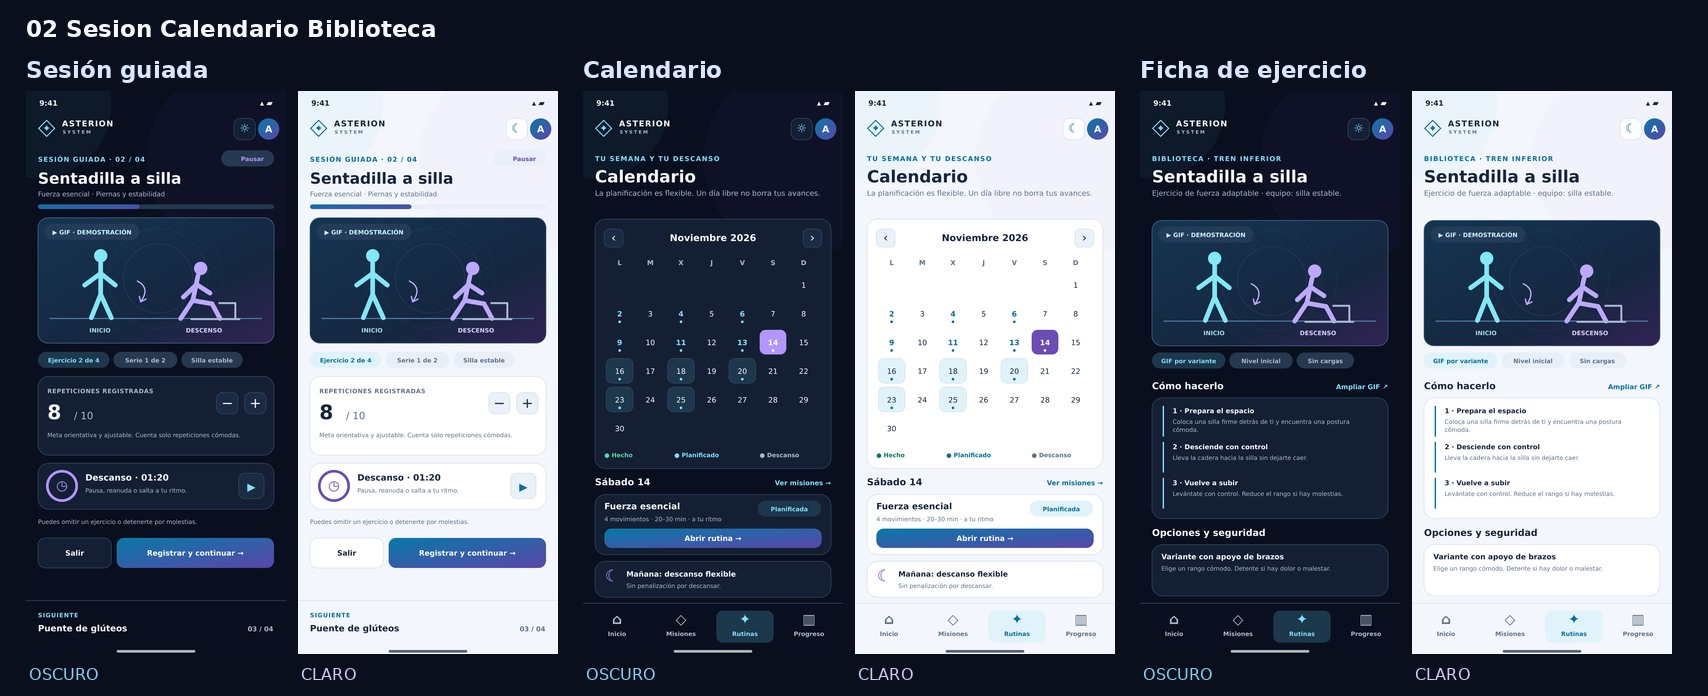
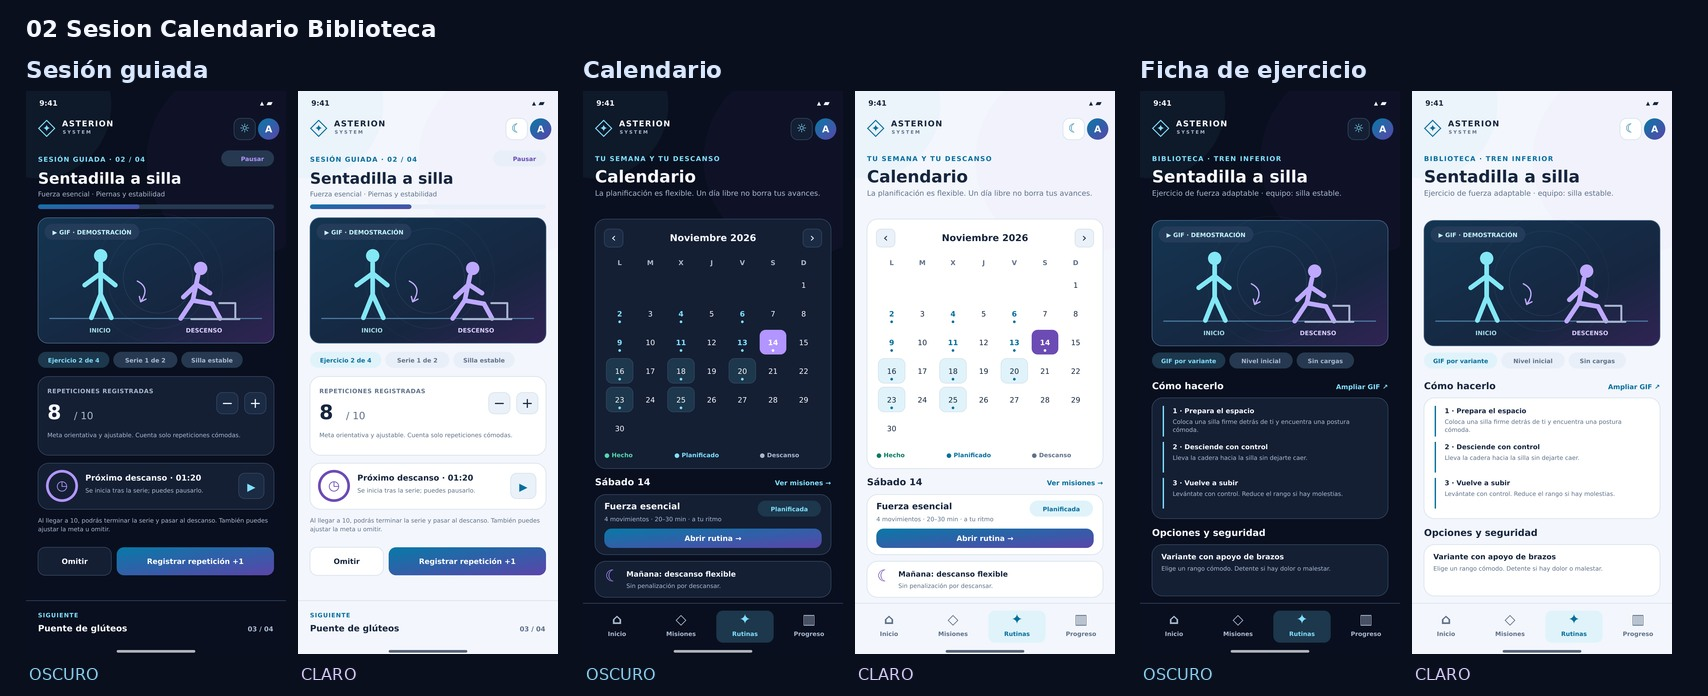
docs(android): clarificar avance de series y contraste del prediseño

Changed region(s): [[0.1862, 0.6638, 0.3413, 0.8448], [0.031, 0.6638, 0.1552, 0.8448]]

diff --git a/docs/design-preview/render_asterion_mockups.py b/docs/design-preview/render_asterion_mockups.py
@@ -412,13 +412,14 @@ def workout(c):
     c.card(18, 558, 354, 69)
     c.circle(54, 592, 22, "none", c.p.violet, 4)
     c.text(54, 598, "◷", 20, c.p.violet, anchor="middle")
-    c.text(89, 584, "Descanso · 01:20", 13, bold=True)
-    c.text(89, 602, "Pausa, reanuda o salta a tu ritmo.", 9, c.p.muted)
+    c.text(89, 584, "Próximo descanso · 01:20", 12, bold=True)
+    c.text(89, 602, "Se inicia tras la serie; puedes pausarlo.", 9, c.p.muted)
     c.rect(319, 573, 38, 38, c.p.surface2, 9, c.p.line)
     c.text(338, 599, "▶", 16, c.p.accent, anchor="middle")
-    c.text(18, 649, "Puedes omitir un ejercicio o detenerte por molestias.", 9, c.p.muted)
-    c.button(18, 670, 110, "Salir", False, 45)
-    c.button(136, 670, 236, "Registrar y continuar  →", True, 45)
+    c.wrap(18, 647, "Al llegar a 10, podrás terminar la serie y pasar al descanso. También puedes ajustar la meta u omitir.",
+           354, 9, c.p.muted, leading=13, max_lines=2)
+    c.button(18, 684, 110, "Omitir", False, 42)
+    c.button(136, 684, 236, "Registrar repetición  +1", True, 42)
     c.rect(0, 764, 390, 80, c.p.bg)
     c.line(0, 764, 390, 764)
     c.text(18, 789, "SIGUIENTE", 9, c.p.accent, True, spacing=.8)
